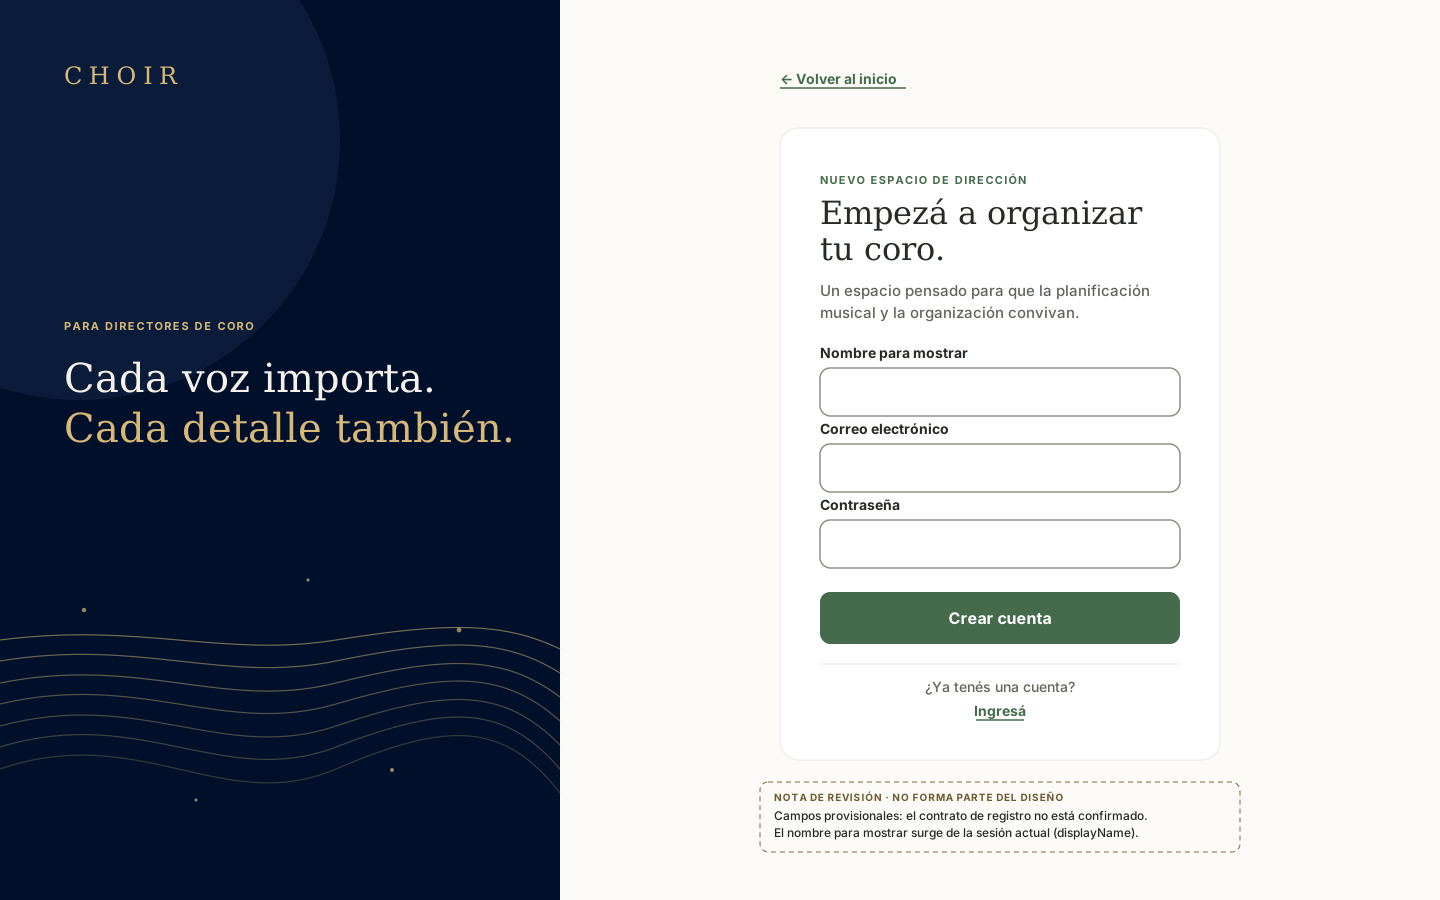
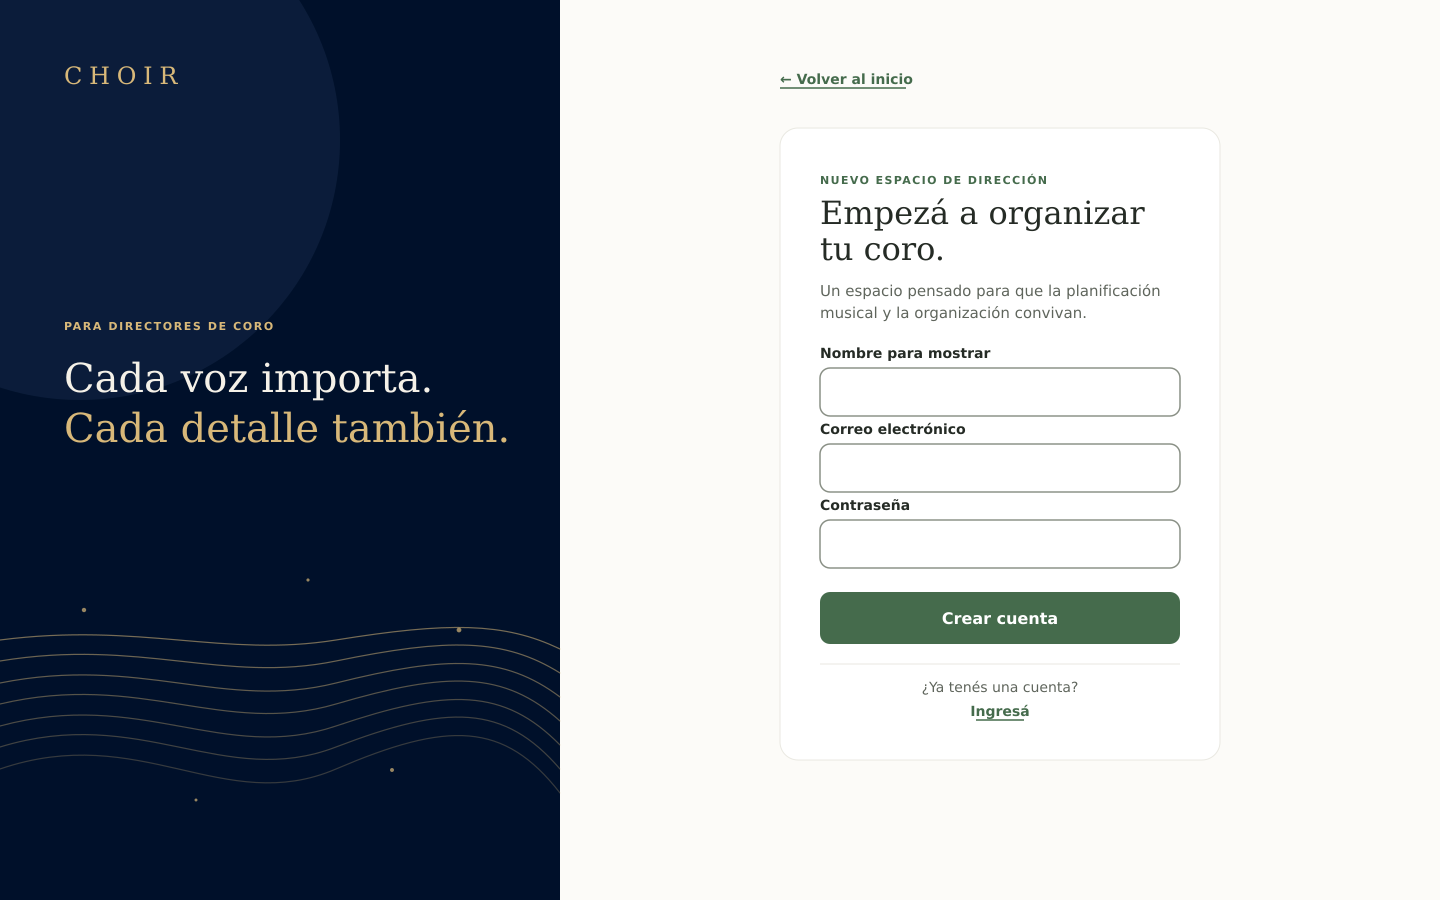
docs(CHOIR-124): refine auth proposals and design backlog

diff --git a/docs/design-backlog.md b/docs/design-backlog.md
@@ -14,6 +14,9 @@ independientes. No representa tickets ya creados ni autoriza implementaciones.
 - Verificar dependencias con Jira antes de iniciar cada implementación.
 - No asignar tareas paralelas que modifiquen los mismos componentes.
 - Cada implementación debe realizarse en su propia rama y PR.
+- Cada unidad DS que se implemente debe tener un ticket Jira propio.
+- Las etapas A y B de DS-02 son tickets Jira independientes, con ramas y PR separados.
+- Los identificadores DS organizan este backlog; no representan tickets Jira creados.
 
 ## 2. Criterios de prioridad
 
@@ -32,14 +35,16 @@ Prioridad: P1.
 Objetivo:
 Establecer los patrones visuales que utilizarán los módulos del frontend.
 
+Responsabilidad exclusiva: definir y documentar los fundamentos visuales y los contratos de los componentes compartidos. No implementar estados específicos de cada pantalla ni rediseñar módulos.
+
 Alcance:
 - Tokens de color, tipografía, espaciado, bordes y superficies.
 - Botones y sus variantes.
 - Campos y controles de formularios.
 - Tarjetas y paneles.
 - Alertas y mensajes de feedback.
-- Estados de carga, vacío, error y éxito.
-- Foco visible y estados disabled.
+- Estados visuales de los componentes base: foco, disabled, validación y feedback.
+- Estados de carga y deshabilitado propios de los controles.
 - Criterios responsive.
 
 Criterios de aceptación:
@@ -324,6 +329,8 @@ Prioridad: P2.
 Objetivo:
 Consolidar los estados compartidos de la aplicación.
 
+Responsabilidad exclusiva: aplicar y verificar los patrones de estado ya definidos por DS-01 en los módulos existentes. No crear tokens, variantes ni componentes base nuevos.
+
 Alcance:
 - Carga.
 - Vacío.
@@ -331,7 +338,8 @@ Alcance:
 - Éxito.
 - Confirmación.
 - Falta de permisos.
-- Mensajes de validación.
+- Aplicación de mensajes de validación en formularios existentes.
+- Aplicación de los patrones en las pantallas existentes, sin redefinir componentes base.
 
 Criterios de aceptación:
 - Los estados tienen patrones visuales consistentes.
@@ -339,6 +347,7 @@ Criterios de aceptación:
 - Los errores y confirmaciones son accesibles.
 - No se confunden errores técnicos con estados vacíos.
 - Los patrones se reutilizan entre módulos.
+- DS-08 no modifica tokens, variantes ni contratos visuales definidos por DS-01.
 
 Dependencias:
 - DS-01.
@@ -405,6 +414,7 @@ contra Jira y los componentes compartidos antes de asignar trabajo paralelo.
 - DS-02 debe mantener separadas las tareas visuales y las de integración
   funcional de Registro.
 - DS-08 debe reutilizar los patrones definidos, no crear variantes aisladas.
+- DS-01 define estados a nivel de componente; DS-08 aplica y verifica estados globales a nivel de pantalla.
 - DS-09 valida y reporta hallazgos; las correcciones se implementan en tickets
   específicos.
 - No dividir una misma pantalla entre implementadores sin delimitar archivos

diff --git a/docs/design-proposals.md b/docs/design-proposals.md
@@ -251,6 +251,7 @@ Contrastes calculados, sin pruebas manuales:
 - Confirmar la ruta frontend de verificación y la configuración efectiva
   de los entornos antes de cerrar el diseño del recorrido completo.
 - Reconciliar DS-02 en `design-backlog.md` con el contrato verificado.
+- DS-02 Etapa A y DS-02 Etapa B deben gestionarse como tickets Jira independientes, cada uno con su propia rama y PR. La Etapa A cubre el diseño visual; la Etapa B cubre exclusivamente la integración funcional de Registro y permanece bloqueada hasta resolver sus dependencias.
 
 ### Criterios de validación
 
